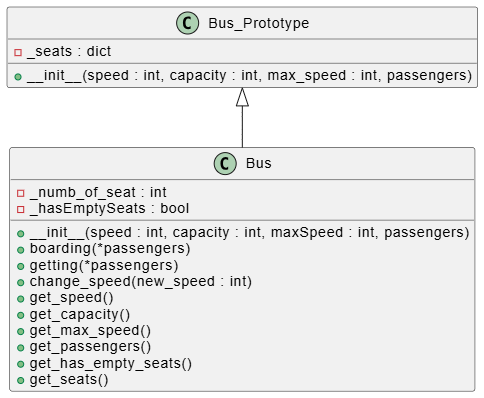
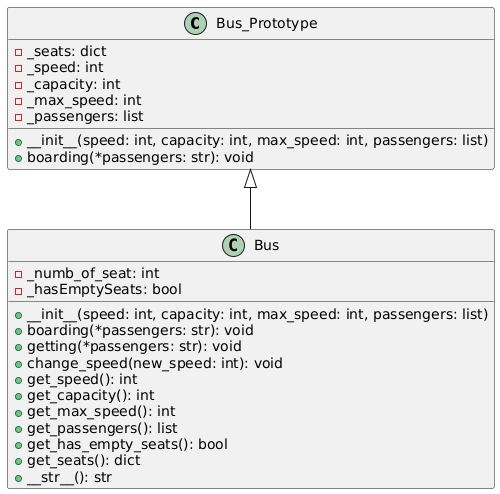
Fix

Changed region(s): [[0.0, 0.0, 0.9917, 0.995]]

diff --git a/week02/main_test.py b/week02/main_test.py
@@ -1,30 +1,86 @@
 from main import Bus
 
 
-def test_bus_initialization():
-    bus = Bus(10, 20, 30, ["passenger1", "passenger2"])
-    assert bus.get_speed() == 10
-    assert bus.get_capacity() == 20
-    assert bus.get_max_speed() == 30
-    assert bus.get_passengers() == ["passenger1", "passenger2"]
-    assert bus.get_has_empty_seats() is True
-
-
 def test_boarding():
-    bus = Bus(10, 20, 30, ["passenger1", "passenger2"])
-    bus.boarding("passenger3")
-    assert bus.get_passengers() == ["passenger1", "passenger2", "passenger3"]
-    assert bus.get_seats()["seat_3"] == "passenger3"
+    bus = Bus(60, 10, 120, [])
+    bus.boarding("passenger1", "passenger2")
+    assert bus.get_passengers() == ["passenger1", "passenger2"]
+    assert bus.get_seats() == {
+        "seat_1": "passenger1",
+        "seat_2": "passenger2",
+        "seat_3": None,
+        "seat_4": None,
+        "seat_5": None,
+        "seat_6": None,
+        "seat_7": None,
+        "seat_8": None,
+        "seat_9": None,
+    }
 
 
 def test_getting():
-    bus = Bus(10, 20, 30, ["passenger1", "passenger2"])
+    bus = Bus(60, 10, 120, ["passenger1", "passenger2"])
     bus.getting("passenger1")
     assert bus.get_passengers() == ["passenger2"]
-    assert bus.get_seats()["seat_1"] is None
+    assert bus.get_seats() == {
+        "seat_1": None,
+        "seat_2": "passenger2",
+        "seat_3": None,
+        "seat_4": None,
+        "seat_5": None,
+        "seat_6": None,
+        "seat_7": None,
+        "seat_8": None,
+        "seat_9": None,
+    }
 
 
 def test_change_speed():
-    bus = Bus(10, 20, 30, ["passenger1", "passenger2"])
-    bus.change_speed(25)
-    assert bus.get_speed() == 25
+    bus = Bus(60, 10, 120, [])
+    bus.change_speed(80)
+    assert bus.get_speed() == 80
+
+
+def test_get_speed():
+    bus = Bus(60, 10, 120, [])
+    assert bus.get_speed() == 60
+
+
+def test_get_capacity():
+    bus = Bus(60, 10, 120, [])
+    assert bus.get_capacity() == 10
+
+
+def test_get_max_speed():
+    bus = Bus(60, 10, 120, [])
+    assert bus.get_max_speed() == 120
+
+
+def test_get_passengers():
+    bus = Bus(60, 10, 120, ["passenger1", "passenger2"])
+    assert bus.get_passengers() == ["passenger1", "passenger2"]
+
+
+def test_get_has_empty_seats():
+    bus = Bus(60, 10, 120, ["passenger1", "passenger2"])
+    assert bus.get_has_empty_seats() is True
+
+
+def test_get_seats():
+    bus = Bus(60, 10, 120, ["passenger1", "passenger2"])
+    assert bus.get_seats() == {
+        "seat_1": "passenger1",
+        "seat_2": "passenger2",
+        "seat_3": None,
+        "seat_4": None,
+        "seat_5": None,
+        "seat_6": None,
+        "seat_7": None,
+        "seat_8": None,
+        "seat_9": None,
+    }
+
+
+def test_str():
+    bus = Bus(60, 10, 120, ["passenger1", "passenger2"])
+    print(bus)

diff --git a/week02/main.py b/week02/main.py
@@ -1,4 +1,7 @@
-class Bus_Prototype:
+from abc import abstractmethod, ABC
+
+
+class Bus_Prototype(ABC):
     """
     Класс Bus_Prototype представляет прототип автобуса с определенными местами.
     """
@@ -21,6 +24,10 @@ class Bus_Prototype:
         self._capacity: int = capacity
         self._max_speed: int = max_speed
         self._passengers = passengers
+
+    @abstractmethod
+    def boarding(self, *passengers: str):
+        pass
 
 
 class Bus(Bus_Prototype):
@@ -49,7 +56,7 @@ class Bus(Bus_Prototype):
             self._seats[f"seat_{self._numb_of_seat}"] = i
             self._numb_of_seat += 1
 
-    def boarding(self, *passengers):
+    def boarding(self, *passengers: str):
         """
         Метод boarding добавляет пассажиров в автобус.
 
@@ -58,21 +65,19 @@ class Bus(Bus_Prototype):
         new_pass = list(passengers)
 
         for i in new_pass:
-            if self._hasEmptySeats:
-                if len(self._passengers) < self._capacity:
-                    self._passengers.append(i)
+            if len(self._passengers) < self._capacity:
+                self._passengers.append(i)
 
-                    for key in self._seats:
-                        if self._seats[key] is None:
-                            self._seats[key] = i
-                            break
+                for key in self._seats:
+                    if self._seats[key] is None:
+                        self._seats[key] = i
+                        break
 
-                    print(f"Зашёл пассажир {i}.")
+                print(f"Зашёл пассажир {i}.")
 
-                else:
-                    self._hasEmptySeats = False
-                    print("Свободных мест не осталось.")
             else:
+                self._hasEmptySeats = False
+                print("Свободных мест не осталось.")
                 break
 
     def getting(self, *passengers):
@@ -121,4 +126,14 @@ class Bus(Bus_Prototype):
         return self._hasEmptySeats
 
     def get_seats(self):
+        print(self._seats)
         return self._seats
+
+    def __str__(self):
+        return (
+            f"Скорость автобуса: {self._speed} км/час\n"
+            f"Максимальная скорость автобуса: {self._max_speed} км/час\n"
+            f"Колличество свободных мест: "
+            f"{len(self._passengers) - self._capacity}\n"
+            f"Колличество пассажиров: {len(self._passengers)}"
+        )

diff --git a/week02/README.md b/week02/README.md
@@ -16,7 +16,10 @@
 
 ```PYTHON
 #main.py
-class Bus_Prototype:
+from abc import abstractmethod, ABC
+
+
+class Bus_Prototype(ABC):
     """
     Класс Bus_Prototype представляет прототип автобуса с определенными местами.
     """
@@ -39,6 +42,10 @@ class Bus_Prototype:
         self._capacity: int = capacity
         self._max_speed: int = max_speed
         self._passengers = passengers
+
+    @abstractmethod
+    def boarding(self, *passengers: str):
+        pass
 
 
 class Bus(Bus_Prototype):
@@ -67,7 +74,7 @@ class Bus(Bus_Prototype):
             self._seats[f"seat_{self._numb_of_seat}"] = i
             self._numb_of_seat += 1
 
-    def boarding(self, *passengers):
+    def boarding(self, *passengers: str):
         """
         Метод boarding добавляет пассажиров в автобус.
 
@@ -76,21 +83,19 @@ class Bus(Bus_Prototype):
         new_pass = list(passengers)
 
         for i in new_pass:
-            if self._hasEmptySeats:
-                if len(self._passengers) < self._capacity:
-                    self._passengers.append(i)
+            if len(self._passengers) < self._capacity:
+                self._passengers.append(i)
 
-                    for key in self._seats:
-                        if self._seats[key] is None:
-                            self._seats[key] = i
-                            break
+                for key in self._seats:
+                    if self._seats[key] is None:
+                        self._seats[key] = i
+                        break
 
-                    print(f"Зашёл пассажир {i}.")
+                print(f"Зашёл пассажир {i}.")
 
-                else:
-                    self._hasEmptySeats = False
-                    print("Свободных мест не осталось.")
             else:
+                self._hasEmptySeats = False
+                print("Свободных мест не осталось.")
                 break
 
     def getting(self, *passengers):
@@ -139,7 +144,17 @@ class Bus(Bus_Prototype):
         return self._hasEmptySeats
 
     def get_seats(self):
-        return self._seats 
+        print(self._seats)
+        return self._seats
+
+    def __str__(self):
+        return (
+            f"Скорость автобуса: {self._speed} км/час\n"
+            f"Максимальная скорость автобуса: {self._max_speed} км/час\n"
+            f"Колличество свободных мест: "
+            f"{len(self._passengers) - self._capacity}\n"
+            f"Колличество пассажиров: {len(self._passengers)}"
+        )
 ```
 
 ``` PYTHON
@@ -147,33 +162,90 @@ class Bus(Bus_Prototype):
 from main import Bus
 
 
-def test_bus_initialization():
-    bus = Bus(10, 20, 30, ["passenger1", "passenger2"])
-    assert bus.get_speed() == 10
-    assert bus.get_capacity() == 20
-    assert bus.get_max_speed() == 30
-    assert bus.get_passengers() == ["passenger1", "passenger2"]
-    assert bus.get_has_empty_seats() is True
-
-
 def test_boarding():
-    bus = Bus(10, 20, 30, ["passenger1", "passenger2"])
-    bus.boarding("passenger3")
-    assert bus.get_passengers() == ["passenger1", "passenger2", "passenger3"]
-    assert bus.get_seats()["seat_3"] == "passenger3"
+    bus = Bus(60, 10, 120, [])
+    bus.boarding("passenger1", "passenger2")
+    assert bus.get_passengers() == ["passenger1", "passenger2"]
+    assert bus.get_seats() == {
+        "seat_1": "passenger1",
+        "seat_2": "passenger2",
+        "seat_3": None,
+        "seat_4": None,
+        "seat_5": None,
+        "seat_6": None,
+        "seat_7": None,
+        "seat_8": None,
+        "seat_9": None,
+    }
 
 
 def test_getting():
-    bus = Bus(10, 20, 30, ["passenger1", "passenger2"])
+    bus = Bus(60, 10, 120, ["passenger1", "passenger2"])
     bus.getting("passenger1")
     assert bus.get_passengers() == ["passenger2"]
-    assert bus.get_seats()["seat_1"] is None
+    assert bus.get_seats() == {
+        "seat_1": None,
+        "seat_2": "passenger2",
+        "seat_3": None,
+        "seat_4": None,
+        "seat_5": None,
+        "seat_6": None,
+        "seat_7": None,
+        "seat_8": None,
+        "seat_9": None,
+    }
 
 
 def test_change_speed():
-    bus = Bus(10, 20, 30, ["passenger1", "passenger2"])
-    bus.change_speed(25)
-    assert bus.get_speed() == 25
+    bus = Bus(60, 10, 120, [])
+    bus.change_speed(80)
+    assert bus.get_speed() == 80
+
+
+def test_get_speed():
+    bus = Bus(60, 10, 120, [])
+    assert bus.get_speed() == 60
+
+
+def test_get_capacity():
+    bus = Bus(60, 10, 120, [])
+    assert bus.get_capacity() == 10
+
+
+def test_get_max_speed():
+    bus = Bus(60, 10, 120, [])
+    assert bus.get_max_speed() == 120
+
+
+def test_get_passengers():
+    bus = Bus(60, 10, 120, ["passenger1", "passenger2"])
+    assert bus.get_passengers() == ["passenger1", "passenger2"]
+
+
+def test_get_has_empty_seats():
+    bus = Bus(60, 10, 120, ["passenger1", "passenger2"])
+    assert bus.get_has_empty_seats() is True
+
+
+def test_get_seats():
+    bus = Bus(60, 10, 120, ["passenger1", "passenger2"])
+    assert bus.get_seats() == {
+        "seat_1": "passenger1",
+        "seat_2": "passenger2",
+        "seat_3": None,
+        "seat_4": None,
+        "seat_5": None,
+        "seat_6": None,
+        "seat_7": None,
+        "seat_8": None,
+        "seat_9": None,
+    }
+
+
+def test_str():
+    bus = Bus(60, 10, 120, ["passenger1", "passenger2"])
+    print(bus)
+
 
 ```
 При выполнении задания необходимо пострить UML-диграмма классов приложения.
